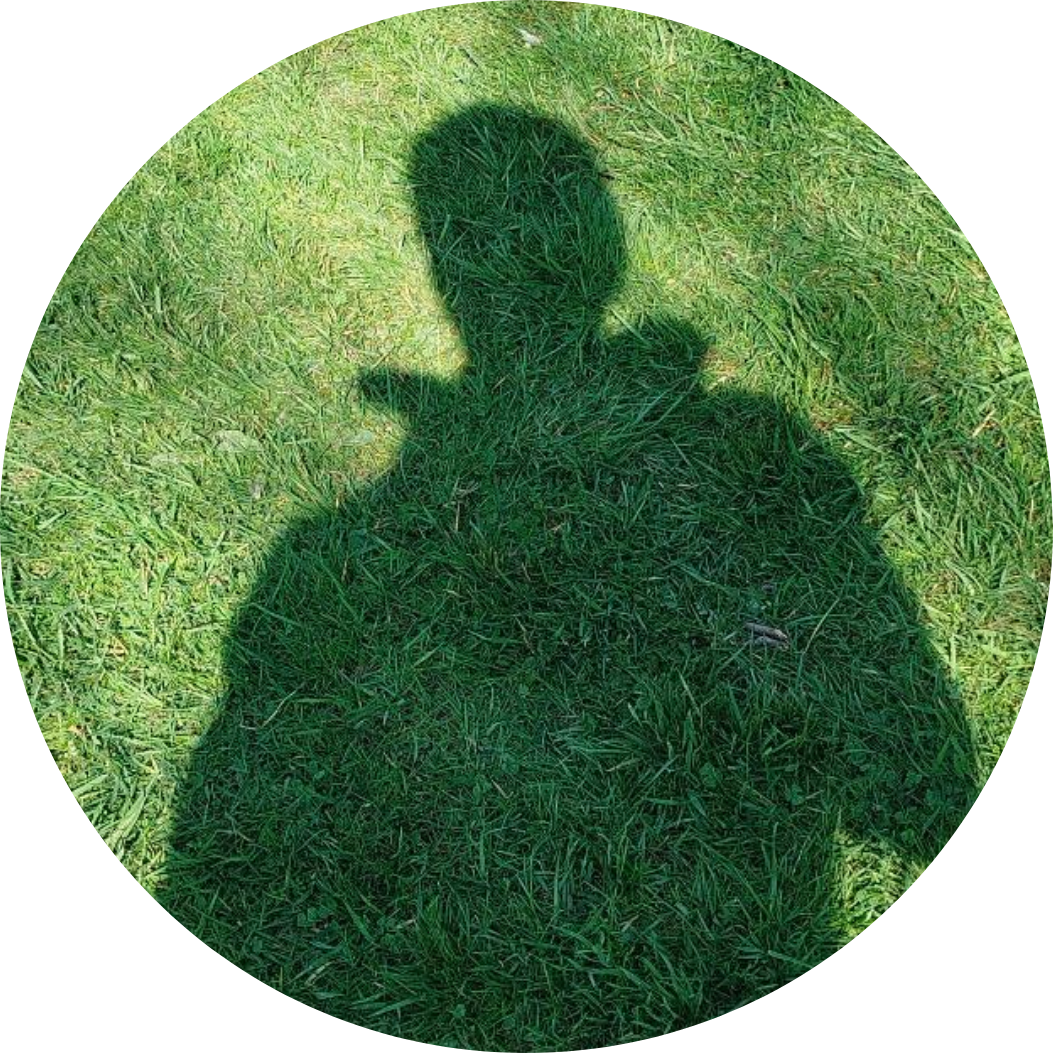
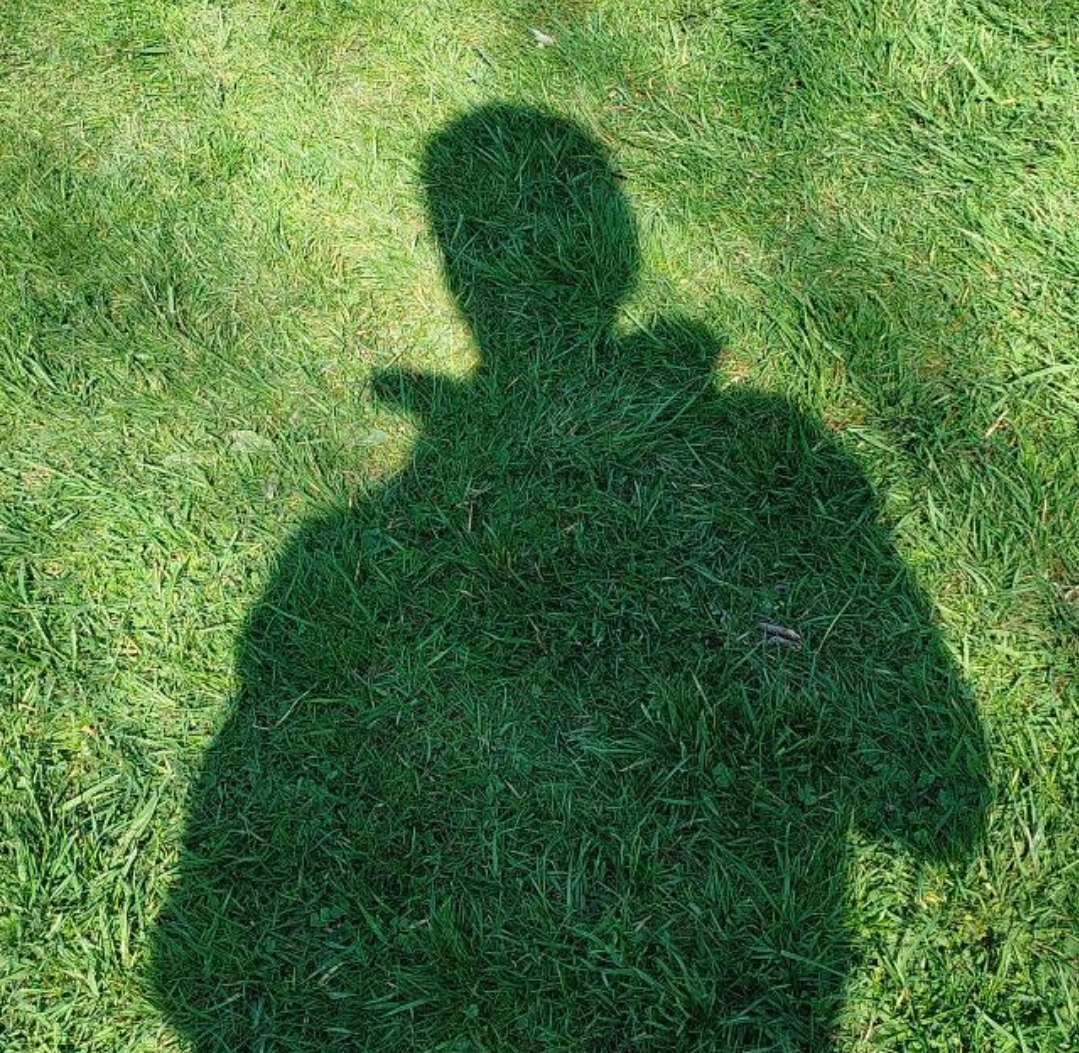
few changes

diff --git a/static/index.html b/static/index.html
@@ -3,8 +3,21 @@
 
     <head>
         <meta charset="utf-8">
+        <!--
+
+        I need to say, I am not a Frontend Developer and it is freaking hard to design a website for myself. 
+
+        If you say it is bad, you are probably right. :)
+
+        I'm open to suggestions. 
+
+        Mail: contact@oemeRsak.me
+
+        -->
         <meta name="viewport" content="width=device-width, initial-scale=1.0, shrink-to-fit=no">
-        <title>oemeRsak</title>
+        <title>Ömer Rasim Sak</title>
+        <meta name="description" content="This is my Portfolio in Progress.">
+        <link rel="icon" type="image/png" sizes="809x790" href="assets/img/image.png">
         <link rel="stylesheet" href="https://cdn.jsdelivr.net/npm/bootstrap@5.3.6/dist/css/bootstrap.min.css">
         <link rel="stylesheet" href="https://fonts.googleapis.com/css?family=Roboto+Slab&amp;display=swap">
         <link rel="stylesheet" href="https://use.fontawesome.com/releases/v5.12.0/css/all.css">
@@ -12,40 +25,35 @@
     </head>
 
     <body>
-        <div class="container d-flex p-5" style="font-family:'Roboto Slab';">
+        <div class="container d-flex p-5">
             <div class="row">
                 <div class="col-lg-4">
                     <header class="position-sticky top-0 d-block w-auto ps-3 pe-5 pt-4 pb-4 mb-md-0"
-                        style="height:80vh;"><img class="img-fluid" src="assets/img/image.png"
-                            alt="Profile photo of Ömer Rasim Sak" style="max-width:33%;">
+                        style="height:80vh;"><img class="rounded-circle img-fluid" width="1079" height="1053"
+                            style="max-width:33%;" src="assets/img/image.png">
                         <h1>Ömer Rasim Sak</h1>
                         <h2><span data-bs-toggle="tooltip" data-bss-tooltip="" data-bs-placement="left"
                                 title="for or denoting young or younger people.">"Junior"</span> backend developer,
                             <span data-bs-toggle="tooltip" data-bss-tooltip=""
-                                title="Combines the fields of information technology and electronics.">Infotronics</span>, ...
-                        </h2>
+                                title="Combines the fields of information technology and electronics.">Infotronics</span>,
+                            ... </h2>
                         <h3>Stuttgart, Germany</h3>
                         <p>A student with many interests.</p>
                         <ul class="nav nav-tabs flex-column border-0" id="navs" style="width:inherit;">
                             <li class="nav-item border-0 d-flex" style="width:inherit;">
                                 <a class="nav-link active border-0" href="#projects">Projects</a></li>
-                            <li class="nav-item border-0 d-flex" style="width:inherit;"><a class="nav-link border-0"
-                                    href="#experience">Experience</a></li>
-                            <!--
-                                    <li class="nav-item border-0 d-flex" style="width:inherit;"><a class="nav-link border-0"
-                                    href="#education">Education</a></li>
-                            -->
-                            <li class="nav-item border-0 d-flex" style="width:inherit;"><a class="nav-link border-0"
-                                    href="#volunteer">Volunteer</a></li>
+                            <li class="nav-item border-0 d-flex" style="width:inherit;">
+                                <a class="nav-link border-0" href="#experience">Experience</a></li>
+                            <li class="nav-item border-0 d-flex" style="width:inherit;">
+                                <a class="nav-link border-0" href="#volunteer">Volunteer</a></li>
                         </ul>
-                        <div class="position-absolute mt-3 mb-3">
-                            <a class="p-1" href="https://github.com/oemeRsak" target="_blank" rel="noopener noreferrer"
-                                aria-label="GitHub profile"><span class="fab fa-github fs-2 text-body" aria-hidden="true"></span></a>
-                            <a class="p-1" href="mailto:contact@oemeRsak.me" target="_blank" rel="noopener noreferrer"
-                                aria-label="Send Email"><span class="fas fa-envelope fs-2 text-body" aria-hidden="true"></span></a>
-                            <a class="p-1" href="https://oemeRsak.me" target="_blank" rel="noopener noreferrer"
-                                aria-label="Personal website"><span class="fas fa-globe fs-2 text-body" aria-hidden="true"></span></a>
-                        </div>
+                        <div class="position-absolute mt-3 mb-3"><a class="p-1" href="https://github.com/oemeRsak"
+                                target="_blank" aria-label="GitHub profile">
+                                <i class="fab fa-github fs-2 text-body"></i></a>
+                                <a class="p-1" href="mailto:contact@oemeRsak.me" aria-label="Send Email" target="_blank">
+                                <i class="fas fa-envelope fs-2 text-body"></i></a>
+                                <a class="p-1" href="https://oemeRsak.me" target="_blank" aria-label="Personal website">
+                                <i class="fas fa-globe fs-2 text-body"></i></a></div>
                     </header>
                 </div>
                 <div class="col-lg-8">
@@ -109,10 +117,10 @@
                                     <h3>Internship in Backend Development</h3>
                                     <p>This was my first step into backend development. I focused fully on Django and
                                         learned a lot during this period. Now I am more interested in backend
-                                        development and improving my skills.</p><span
-                                        class="badge rounded-pill bg-primary me-1 mb-1">Backend</span><span
-                                        class="badge rounded-pill bg-primary me-1 mb-1">Python</span><span
-                                        class="badge rounded-pill bg-primary me-1 mb-1">Django</span>
+                                        development and improving my skills.</p>
+                                        <span class="badge rounded-pill bg-primary me-1 mb-1">Backend</span>
+                                        <span class="badge rounded-pill bg-primary me-1 mb-1">Python</span>
+                                        <span class="badge rounded-pill bg-primary me-1 mb-1">Django</span>
                                 </div>
                             </div>
                             <div class="d-flex flex-wrap mb-3">
@@ -123,31 +131,12 @@
                                             title="FLL guides youth through STEM learning and exploration at an early age.">First
                                             Lego League</span> (Turkey) </h3>
                                     <p>My team and I won 1st place for Robot Design in the country. During COVID-19, we
-                                        were one of the few teams able to meet while following health rules.</p><span
-                                        class="badge rounded-pill bg-primary me-1 mb-1">Lego Build</span><span
-                                        class="badge rounded-pill bg-primary me-1 mb-1">STEM</span>
+                                        were one of the few teams able to meet while following health rules.</p>
+                                        <span class="badge rounded-pill bg-primary me-1 mb-1">Lego Build</span>
+                                        <span class="badge rounded-pill bg-primary me-1 mb-1">STEM</span>
                                 </div>
                             </div>
                         </section>
-                        <!--
-                        <section class="pb-5" id="education">
-                            <h2>Education</h2>
-                            <div class="d-flex flex-wrap mb-3">
-                                <div class="me-3" style="min-width:120px;"><strong>2025 - Present</strong></div>
-                                <div>
-                                    <h3>Technical High School</h3>
-                                    <p>Germany</p>
-                                </div>
-                            </div>
-                            <div class="d-flex flex-wrap mb-3">
-                                <div class="me-3" style="min-width:120px;"><strong>– 2025</strong></div>
-                                <div>
-                                    <h3>Previous Schools</h3>
-                                    <p>Completed various schools before joining Technical High School.</p>
-                                </div>
-                            </div>
-                        </section>
-                        -->
                         <section class="pb-5" id="volunteer">
                             <h2>Volunteer</h2>
                             <div class="d-flex flex-wrap mb-3">

diff --git a/static/assets/css/bss-overrides.css b/static/assets/css/bss-overrides.css
@@ -2,50 +2,5 @@
 [data-bs-theme="light"] {
   --bs-body-bg: #fbfaf5;
   --bs-body-bg-rgb: 251, 250, 245;
-}
-
-.site-root {
-  padding-left: 1.5rem;
-  padding-right: 1.5rem;
-}
-
-.sidebar img {
-  max-width: 220px;
-  height: auto;
-}
-
-.sidebar .social-links i {
-  font-size: 1.6rem;
-  color: var(--bs-body-color);
-}
-
-.sidebar.position-sticky {
-  top: 1rem;
-  padding-bottom: 1.5rem;
-}
-
-@media (max-width: 767.98px) {
-  .sidebar.position-sticky {
-    position: relative !important;
-    top: auto;
-  }
-}
-
-@media (max-width: 767.98px) {
-  .site-root {
-    padding-left: 0.75rem;
-    padding-right: 0.75rem;
-  }
-}
-
-.w-33 {
-  width: 33% !important;
-}
-
-.min-w-33 {
-  min-width: 33% !important;
-}
-
-html {
-  scroll-behavior: smooth;
+  --bs-body-font-family: "Roboto Slab", serif;
 }
